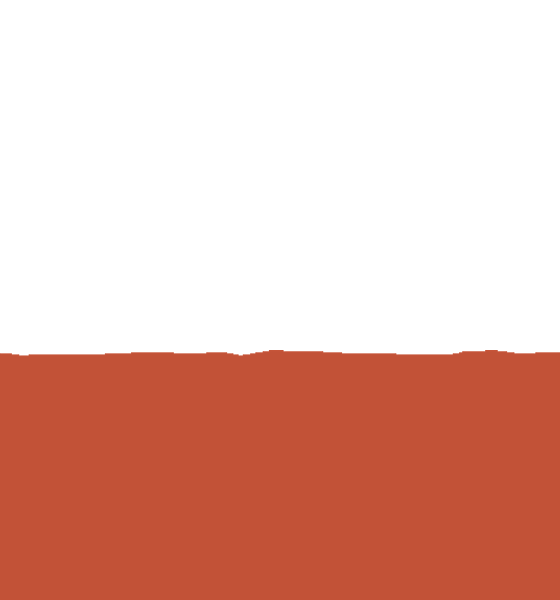
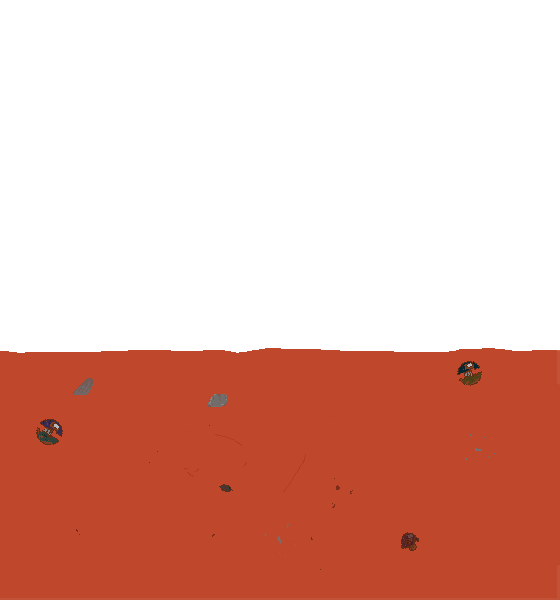
changed order of terrain and added in sun. The game is starting to load up slower, so thinking of implementing a loading screen. Adding enemies.

diff --git a/mainGame.js b/mainGame.js
@@ -20,22 +20,42 @@ class MainGame extends Phaser.Scene {
         });
         this.load.image("ground_bg", "assets/furtherBG.png");
         this.load.image("mountain_bg", "assets/mountain.png");
+        //this.load.image("cloud_bg", "assets/cloud.png");
+
+        this.load.spritesheet("sun", "assets/sunSpritesheet.png", {
+            frameWidth: 16,
+            frameHeight: 16
+        });
     }
 
     create() {
         const GROUND_HEIGHT = game.config.height * 3;
         this.cameras.main.setBackgroundColor("#F2C0A2");
+
+        // this.clouds = this.add.tileSprite(0,0, game.config.width, GROUND_HEIGHT, "cloud_bg");
+        // this.clouds.setOrigin(0,0);
+        // //this.clouds.setScale(5,5);
+        // this.clouds.tilePositionX = game.config.width / 2;
+        // this.clouds.tilePositionY = game.config.height / 2;
+
+
+        this.mountain_bg = this.add.tileSprite(0, 0, game.config.width, GROUND_HEIGHT, "mountain_bg");
+
+        this.mountain_bg.tilePositionY = 240;
+        this.mountain_bg.setOrigin(0,0);
+        this.mountain_bg.setScrollFactor(0);
+
         this.ground_bg = this.add.tileSprite(0.5, 0.5, game.config.width, GROUND_HEIGHT, "ground_bg");
         //this.ground_bg.flipY = true;
 
         this.ground_bg.setOrigin(0,0);
         this.ground_bg.setScrollFactor(0);
 
-        this.mountain_bg = this.add.tileSprite(0, 0, game.config.width, GROUND_HEIGHT, "mountain_bg");
-        this.mountain_bg.setTileScale(3, 4);
-        this.mountain_bg.tilePositionY = 450;
-        this.mountain_bg.setOrigin(0,0);
-        this.mountain_bg.setScrollFactor(0);
+        this.sun = this.add.sprite(2,2, "sun");
+        this.sun.setOrigin(0,0);
+        this.sun.scale = 3;
+
+
         // this.mountain_bg.tileScaleX = 1.1;
         // this.mountain_bg.tileScaleY = 1.1;
         //this.mountain_bg.setSize(game.config.width, GROUND_HEIGHT);
@@ -79,7 +99,15 @@ class MainGame extends Phaser.Scene {
 
         });
 
+        this.anims.create({
+            key: "sun_anim",
+            frames: this.anims.generateFrameNumbers("sun"),
+            frameRate: 2,
+            repeat: -1
+        });
+
         this.player.play("player_anim");
+        this.sun.play("sun_anim");
     }
 
 
@@ -104,8 +132,8 @@ class MainGame extends Phaser.Scene {
             }
         });
 
-        this.ground_bg.tilePositionX += 0.1;
-        this.mountain_bg.tilePositionX += 0.2;
+        this.ground_bg.tilePositionX += 0.25;
+        this.mountain_bg.tilePositionX += 0.05;
 
 
 
